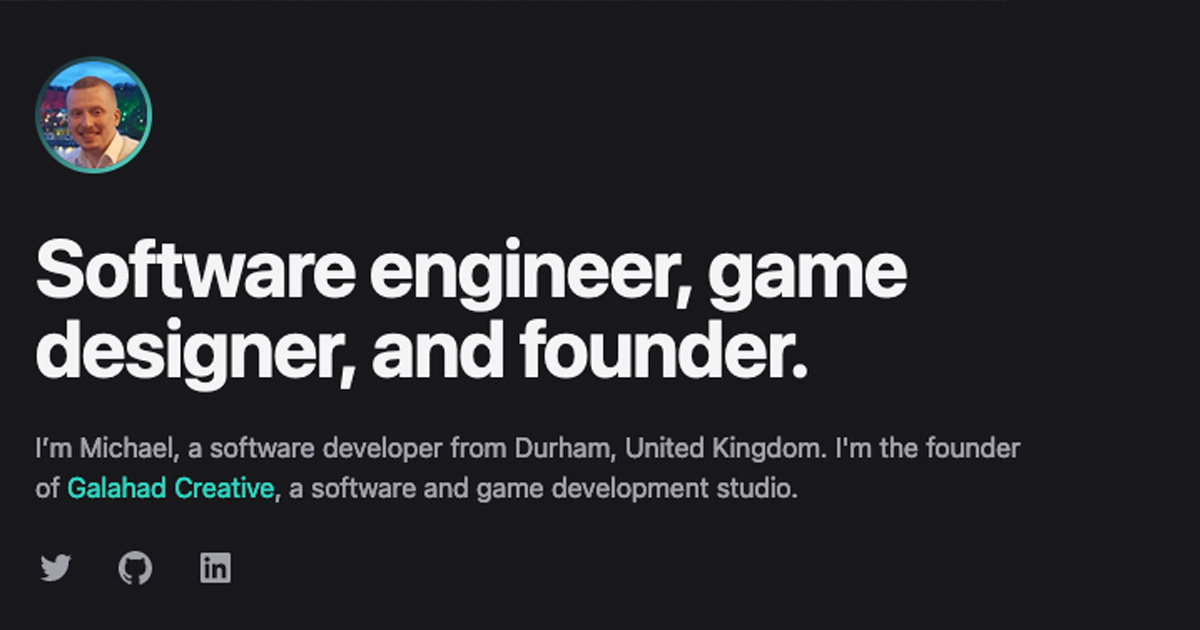
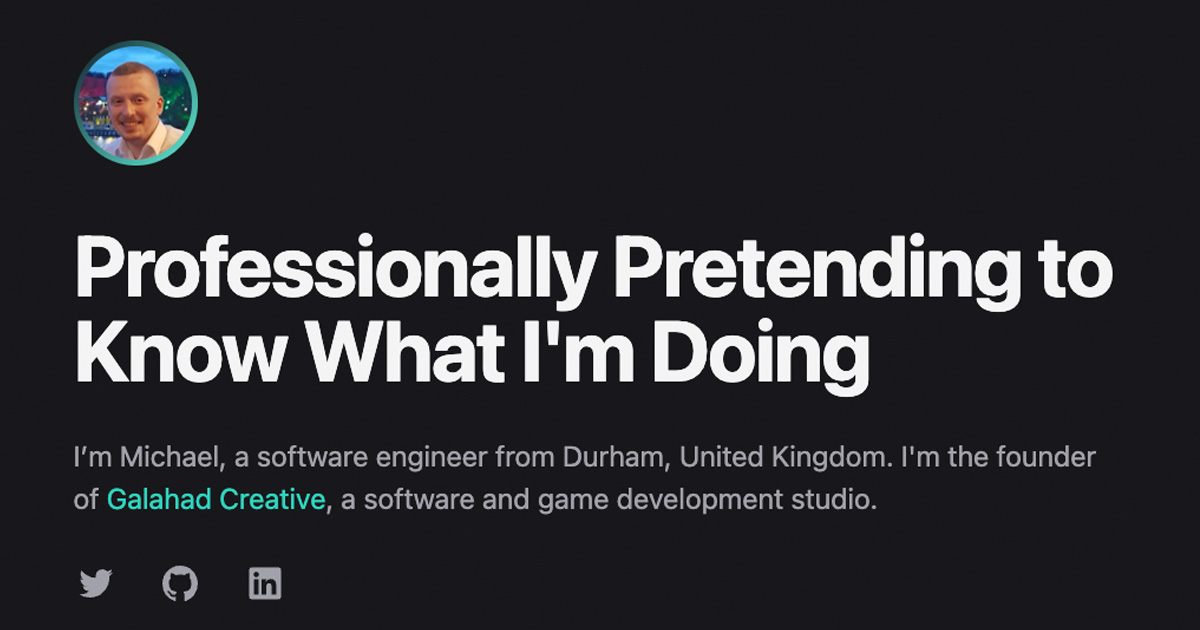
update

diff --git a/public/index.html b/public/index.html
@@ -75,7 +75,7 @@
     <h1 class="text-4xl font-bold tracking-tight text-zinc-100 sm:text-5xl">Software
         engineer, game designer, and founder.</h1>
     <p class="mt-6 text-base text-zinc-400">
-        I’m Michael, a software engineer from Durham, United Kingdom. I'm the founder of <a href="https://www.galahadcreative.com" target="_blank" class="text-teal-400">Galahad Creative</a>,
+        I’m Michael, a software developer from Durham, United Kingdom. I'm the founder of <a href="https://www.galahadcreative.com" target="_blank" class="text-teal-400">Galahad Creative</a>,
         a software and game development studio. </p>
     <div class="mt-6 flex gap-6"><a class="group -m-1 p-1" aria-label="Follow on Twitter" href="https://x.com/galahadxvi" target="_blank" rel="noreferrer nofollow"><svg viewBox="0 0 24 24" aria-hidden="true" class="h-6 w-6 transition fill-zinc-400 group-hover:fill-zinc-300">
                 <path d="M20.055 7.983c.011.174.011.347.011.523 0 5.338-3.92 11.494-11.09 11.494v-.003A10.755 10.755 0 0 1 3 18.186c.308.038.618.057.928.058a7.655 7.655 0 0 0 4.841-1.733c-1.668-.032-3.13-1.16-3.642-2.805a3.753 3.753 0 0 0 1.76-.07C5.07 13.256 3.76 11.6 3.76 9.676v-.05a3.77 3.77 0 0 0 1.77.505C3.816 8.945 3.288 6.583 4.322 4.737c1.98 2.524 4.9 4.058 8.034 4.22a4.137 4.137 0 0 1 1.128-3.86A3.807 3.807 0 0 1 19 5.274a7.657 7.657 0 0 0 2.475-.98c-.29.934-.9 1.729-1.713 2.233A7.54 7.54 0 0 0 22 5.89a8.084 8.084 0 0 1-1.945 2.093Z">
